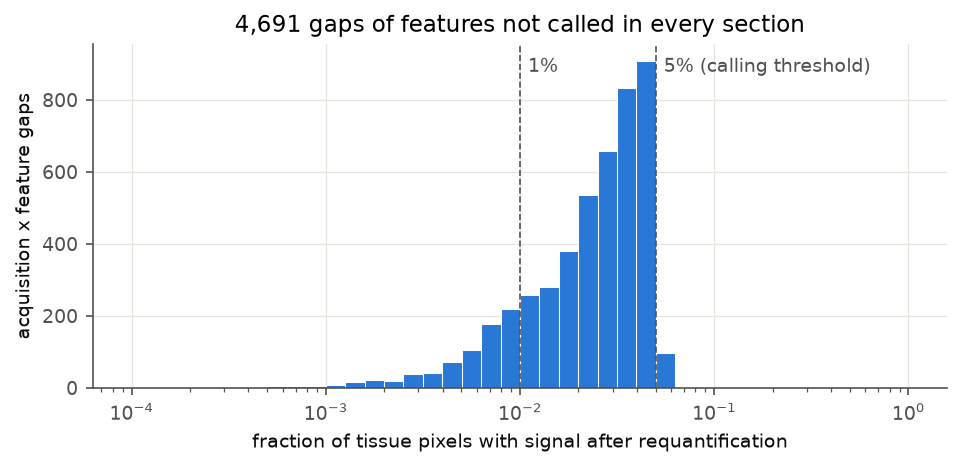
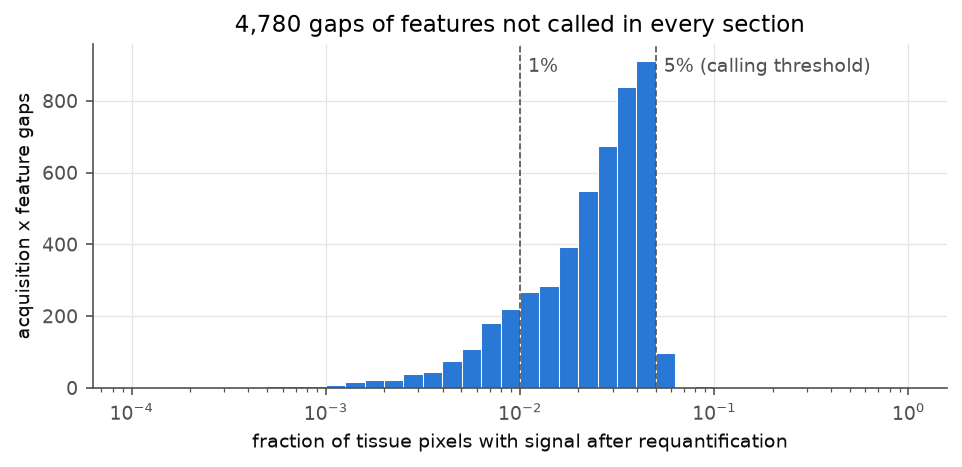
Example figures of section 2: matching with splitting of chains (matching.py)
Claude-Session: https://claude.ai/code/session_01FXoeyATFVqF4whg9rVjNnw

diff --git a/scripts/example_data.py b/scripts/example_data.py
@@ -1,8 +1,8 @@
 """Preprocessing of the example data for the tutorial figures (make_figures.py, make_analysis_figures.py).
 
 Tissue masks as in 2-2 (Otsu on the smoothed summed image of a few abundant tissue ions), a simple frequency-based stand-in for uMAIA peak
-calling (features found in >= 5% of the tissue pixels of an acquisition), ppm matching at 3 ppm (2-4) and
-requantification of every feature in every acquisition (2-4). Runs on a laptop without the msi-umaia environment.
+calling (features found in >= 5% of the tissue pixels of an acquisition), ppm clustering at 3 ppm with splitting of
+chains (matching.py, 2-4) and requantification of every feature in every acquisition (2-4). Runs on a laptop without the msi-umaia environment.
 """
 import os, sys
 import numpy as np, pandas as pd
@@ -13,6 +13,7 @@ from scipy.ndimage import gaussian_filter1d
 from scipy.signal import find_peaks
 sys.path.insert(0, os.path.dirname(os.path.abspath(__file__)))
 from gapfill import consensus_intervals, requantify
+from matching import match
 
 
 # abundant tissue lipids in positive mode with DHB (the reference ions of 2-2): PC 34:1 [M+H]+, [M+Na]+, [M+K]+,
@@ -62,19 +63,18 @@ def call_peaks(p, mask, min_frac=0.05):
     pk, _ = find_peaks(sm, distance=4); pk = pk[tot[pk] >= min_frac * len(idx)]
     c = np.exp(L0 + (pk + 0.5) * BIN); lo, hi = c * (1 - 2.5e-6), c * (1 + 2.5e-6)
     mid = (hi[:-1] + lo[1:]) / 2; ov = hi[:-1] > lo[1:]; hi[:-1][ov], lo[1:][ov] = mid[ov], mid[ov]
-    return pd.DataFrame({"mz_estimated": c, "min": lo, "max": hi})
+    return pd.DataFrame({"mz_estimated": c, "min": lo, "max": hi, "num_pixels": tot[pk]})
 
 
-def requantified(files, masks, ppm=3.0):
+def requantified(files, masks, ppm=3.0, merge_ppm=1.0, max_span_ppm=6.0):
     """files: {acquisition: (imzml, ibd)}; masks: {acquisition: boolean raster}. Returns {acquisition: AnnData of the
     tissue pixels x matched features, raw summed intensities}, all with the same features."""
     acqs = list(files)
     P = {a: ImzMLParser(files[a][0], ibd_file=open(files[a][1], "rb")) for a in acqs}
     dfl = [call_peaks(P[a], masks[a]) for a in acqs]
-    pk = pd.concat([d.assign(acq=a) for d, a in zip(dfl, acqs)]).sort_values("mz_estimated").reset_index(drop=True)
-    gap = np.diff(pk.mz_estimated.values) / pk.mz_estimated.values[1:] * 1e6
-    pk["feature"] = np.concatenate([[0], np.cumsum(gap > ppm)])
-    pk = pk.drop_duplicates(["feature", "acq"])
+    pk, _, stats = match(dfl, acqs, ppm, merge_ppm=merge_ppm, max_span_ppm=max_span_ppm)
+    print(f"matching: {stats['chains']} chains at {ppm} ppm, {stats['chains_split']} split into "
+          f"{stats['features_from_split_chains']} features; {stats['features']} features")
     iv = consensus_intervals(pk[["feature", "acq", "min", "max", "mz_estimated"]], acqs)
     complete = iv.groupby("feature").acq.nunique() == len(acqs)
     iv = iv[iv.feature.isin(complete[complete].index)]

diff --git a/scripts/zebrafish_gapfill_censoring.py b/scripts/zebrafish_gapfill_censoring.py
@@ -2,7 +2,7 @@
 
 Usage: python zebrafish_gapfill_censoring.py <folder with the .imzml/.IBD files>
 Same preprocessing as the figures (example_data.py): reference-ion tissue masks (2-2), stand-in peak calling
-(features in >= 5% of the tissue pixels), ppm matching at 3 ppm and requantification (2-4).
+(features in >= 5% of the tissue pixels), ppm clustering at 3 ppm with splitting of chains and requantification (2-4).
 """
 import sys, re, glob, os, numpy as np, pandas as pd, warnings
 warnings.filterwarnings("ignore")

diff --git a/Tutorial.md b/Tutorial.md
@@ -908,10 +908,10 @@ The result contains raw (not TIC-divided) intensities, which feed the pixel-leve
 
 Requantification cannot recover signal that the instrument did not centroid: values below the centroiding threshold remain zero (see 2-6). A requantified value where the feature was not called is signal in the expected window, not a confirmed peak; inspect a few such images and spectra, especially where intervals of neighbouring features were cut.
 
-As an illustration with the three zebrafish sections of 1-5 (simple frequency-based peak calling keeping features found in >= 5% of the tissue pixels, then ppm matching at 3 ppm): 2,892 of the 5,493 matched features were called in some but not all sections, leaving 4,691 acquisition x feature gaps. After requantification, 84% of these gaps had signal in at least 1% of the pixels (82% in 1-5%): they were low-frequency signals below the calling threshold, not absences (Figure 2-4).
+As an illustration with the three zebrafish sections of 1-5 (simple frequency-based peak calling keeping features found in >= 5% of the tissue pixels, then ppm clustering at 3 ppm with splitting of chains, `max_span_ppm` 6): 47 of the 5,497 chains held two peaks of one section and were split, giving 5,545 features. 2,943 of them were called in some but not all sections, leaving 4,780 acquisition x feature gaps. After requantification, 84% of these gaps had signal in at least 1% of the pixels (82% in 1-5%): they were low-frequency signals below the calling threshold, not absences (Figure 2-4).
 
 ![Detection of gap-filled features](figures/fig_2-4_gapfill.png)
-*Figure 2-4. Fraction of tissue pixels with signal after requantification, for the 4,691 acquisition x feature gaps of the zebrafish example. Most gaps have signal in 1-5% of the pixels, just below the 5% calling threshold (`scripts/make_figures.py`).*
+*Figure 2-4. Fraction of tissue pixels with signal after requantification, for the 4,780 acquisition x feature gaps of the zebrafish example. Most gaps have signal in 1-5% of the pixels, just below the 5% calling threshold (`scripts/make_figures.py`).*
 
 ### 2-5 Feature quality control
 <sub><a href="#top">(Back to top)</a></sub></br>
@@ -1530,7 +1530,7 @@ ax[1].set_xlabel("tolerance (ppm)"); ax[1].legend()
 The median of all candidate errors is only a rough estimate of the systematic offset; use the median error of your reference ions from 2-2 if you have it. For a rough empirical check of chance matches at a given tolerance, repeat the matching with adducts that should not occur in your samples (e.g. +Ag, +Cs; make sure they are really absent from your preparation) and count how many peaks they annotate. This is a diagnostic, not an FDR estimate; METASPACE's target-decoy FDR is built into its scoring and is the formal option.
 
 ![Annotation tolerance diagnostics](figures/fig_2-8_tolerance.png)
-*Figure 2-8. Annotation diagnostics for all 5,493 matched zebrafish features (before feature QC), against a generated sum-composition reference (`scripts/lipid_reference.py`; [M+H]+, [M+Na]+, [M+K]+). Left: errors of all candidates within 10 ppm. The central peak near -0.6 ppm reflects the calibration offset (Figure 2-2b); the side peaks are structured chance matches. Right: fractions of features with at least one candidate, with several candidate ions, and with a decoy (Ag+, Cs+) candidate. At 2 ppm the decoys match about a third as many features as the real adducts, and at 5 ppm about 70%, so many MS1 matches in an unfiltered feature list are chance: annotate after feature QC and treat matches as hypotheses (`scripts/make_figures.py`).*
+*Figure 2-8. Annotation diagnostics for all 5,545 matched zebrafish features (before feature QC), against a generated sum-composition reference (`scripts/lipid_reference.py`; [M+H]+, [M+Na]+, [M+K]+). Left: errors of all candidates within 10 ppm. The central peak near -0.6 ppm reflects the calibration offset (Figure 2-2b); the side peaks are structured chance matches. Right: fractions of features with at least one candidate, with several candidate ions, and with a decoy (Ag+, Cs+) candidate. At 2 ppm the decoys match about a third as many features as the real adducts, and at 5 ppm about 70%, so many MS1 matches in an unfiltered feature list are chance: annotate after feature QC and treat matches as hypotheses (`scripts/make_figures.py`).*
 
 Normalize lipid names to the LIPID MAPS shorthand with [goslin](https://github.com/lifs-tools/pygoslin) (`from pygoslin.parser.Parser import LipidParser; LipidParser().parse("PC(16:0/18:1)").get_lipid_string()`), so that names from different sources can be compared. Use the sphingolipid hydroxyl notation (`SM 34:1;O2`), which matters for ceramides because [M+H]+ and [M-H2O+H]+ ions can be confused.
 
